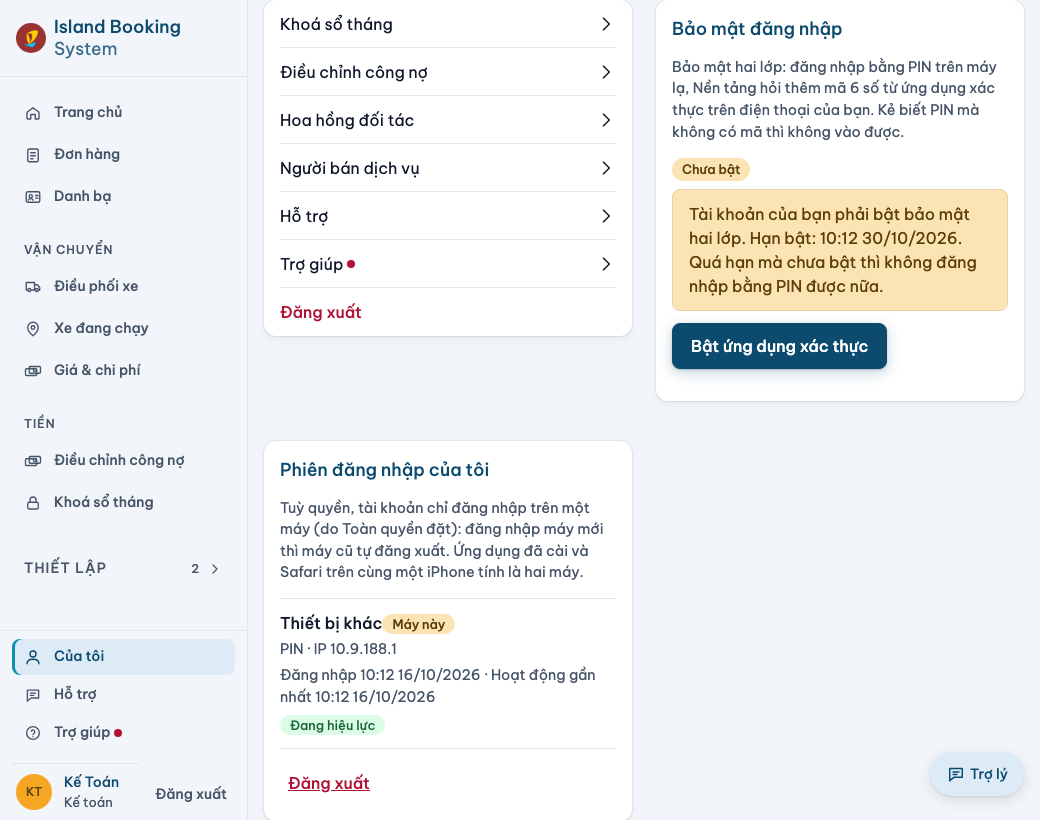
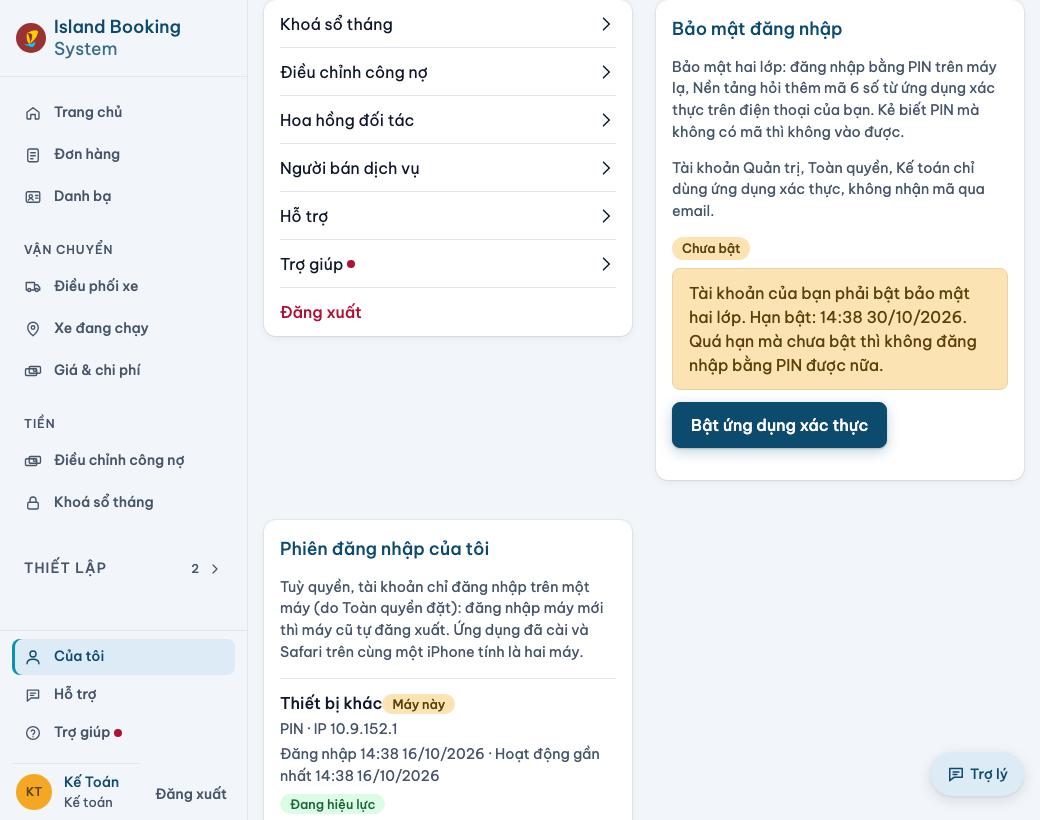
Trang Tôi: dòng giải thích vì sao Quản trị, Toàn quyền, Kế toán không có lựa chọn nhận mã qua email
Chủ dự án (Toàn quyền) không thấy Email ở Bảo mật đăng nhập và tưởng là lỗi; thực ra ADR-0074 điều 7 chỉ cho nhóm này dùng ứng dụng xác thực. Nay khối có một dòng nói rõ điều đó khi máy chủ không cho chọn Email. Kịch bản Chrome bước 3 kiểm đúng dòng này. Nhật ký thay đổi 2.8 (số tạm).

Claude-Session: https://claude.ai/code/session_01Uxse8vb7uZZpntmASeQ8Zs

Changed region(s): [[0.6462, 0.1829, 0.9846, 0.5488], [0.2462, 0.6098, 0.5846, 1.0], [0.2769, 0.5488, 0.4615, 0.5793]]

diff --git a/src/shared/changelog.ts b/src/shared/changelog.ts
@@ -12,6 +12,15 @@ export interface ReleaseNote { readonly version: string; readonly date: string; 
 /** Mới nhất ở ĐẦU. */
 export const CHANGELOG: readonly ReleaseNote[] = [
   {
+    // Dòng giải thích ở trang Tôi → Bảo mật đăng nhập khi không có lựa chọn Email (chủ dự án 2026-10-16: Toàn quyền không thấy Email, tưởng là lỗi). Không migration.
+    // Số 2.8 là số TẠM (= main 2.7 + 1, kiểm 2026-10-16: main 476099d3): phiên phát hành kiểm lại cho đúng số kế tiếp ở main (bước A.0 của docs/HANDOFF-N1.md).
+    version: "2.8",
+    date: "2026-10-16",
+    items: [
+      { kind: "sua", text: "Trang Tôi, mục Bảo mật đăng nhập: tài khoản Quản trị, Toàn quyền, Kế toán nay có dòng giải thích vì sao không có lựa chọn nhận mã qua email." },
+    ],
+  },
+  {
     // Mã đăng nhập qua email (ADR-0074 Phần C). Có thay đổi cơ sở dữ liệu (migration 0102 thêm bảng mã email) — cần trien-khai sau day-len. Gửi thư dùng binding
     // EMAIL + bí mật FEEDBACK_MAIL_FROM đã có (chủ xác nhận; gửi thật chưa thử — docs/HANDOFF-N1.md).
     // Số 2.7 là số TẠM (= main 2.6 «thẻ góp ý chưa trả lời» + 1, kiểm 2026-10-16: main 238f740a): phiên phát hành kiểm lại cho đúng số kế tiếp ở main (bước A.0 của

diff --git a/src/shared/hai-lop-hien-thi.test.ts b/src/shared/hai-lop-hien-thi.test.ts
@@ -2,7 +2,7 @@
 import { test } from "node:test";
 import assert from "node:assert/strict";
 import {
-  CAU_SAI_QUA_NHIEU_HAI_LOP, CHU_DO_MA_DU_PHONG, cauLoiHaiLop, daiNhacHaiLop, khoaDeDoc, maTotpTuO, nhanHaiLop, soNgayCon, tenTepMaDuPhong, vanBanMaDuPhong,
+  CAU_CHI_UNG_DUNG_XAC_THUC, CAU_SAI_QUA_NHIEU_HAI_LOP, CHU_DO_MA_DU_PHONG, cauLoiHaiLop, daiNhacHaiLop, khoaDeDoc, maTotpTuO, nhanHaiLop, soNgayCon, tenTepMaDuPhong, vanBanMaDuPhong,
 } from "./hai-lop-hien-thi.ts";
 
 const NOW = Date.parse("2026-10-16T03:00:00.000Z"); // 10:00 giờ Việt Nam
@@ -65,4 +65,8 @@ test("tệp mã dự phòng: đủ 10 mã đánh số, câu cảnh báo, không 
   assert.ok(t.includes(CHU_DO_MA_DU_PHONG));
   assert.equal(CHU_DO_MA_DU_PHONG, "Cất các mã này ở nơi an toàn — mỗi mã dùng một lần.");
   assert.equal(tenTepMaDuPhong(iso(NOW)), "ma-du-phong-tour-dao-2026-10-16.txt");
+});
+
+test("câu giải thích khi không có lựa chọn Email: nêu rõ ba nhóm quyền chỉ dùng ứng dụng xác thực", () => {
+  assert.equal(CAU_CHI_UNG_DUNG_XAC_THUC, "Tài khoản Quản trị, Toàn quyền, Kế toán chỉ dùng ứng dụng xác thực, không nhận mã qua email.");
 });

diff --git a/web/account.ts b/web/account.ts
@@ -1,6 +1,7 @@
 import { ApiError, api, type Api } from "./api";
 import { chipHan, coMucGiayToCuaToi, ngayVN, tenGiayTo } from "../src/shared/giay-to-hien-thi";
 import { PERMISSION_LABEL, can, hasPermission } from "../src/shared/permissions";
+import { CAU_CHI_UNG_DUNG_XAC_THUC } from "../src/shared/hai-lop-hien-thi";
 import { coPhanTaiXe } from "../src/shared/start-page";
 import { trangToi, type MucHien } from "../src/shared/muc-giao-dien";
 import { canHuyDangKyCu } from "../src/shared/push-khoa";
@@ -697,6 +698,7 @@ async function renderMfa(): Promise<void> {
     mfaEl,
     h("h2", { id: "mfa-heading" }, "Bảo mật đăng nhập"),
     h("p", { class: "muted" }, `Bảo mật hai lớp: đăng nhập bằng PIN trên máy lạ, Nền tảng hỏi thêm mã 6 số từ ứng dụng xác thực trên điện thoại của bạn${emailDuoc ? " hoặc mã gửi qua email" : ""}. Kẻ biết PIN mà không có mã thì không vào được.`),
+    !emailDuoc && h("p", { class: "muted" }, CAU_CHI_UNG_DUNG_XAC_THUC), // máy chủ không cho Email (Quản trị / Toàn quyền / Kế toán): nói rõ để khỏi tưởng là lỗi
     trangThai,
     batBuoc,
     vung,

diff --git a/src/shared/hai-lop-hien-thi.ts b/src/shared/hai-lop-hien-thi.ts
@@ -16,6 +16,9 @@ export function cauLoiHaiLop(code: string, message: string): string {
   return code === "too_many_attempts" ? CAU_SAI_QUA_NHIEU_HAI_LOP : message;
 }
 
+/** Dòng giải thích ở khối Bảo mật đăng nhập khi máy chủ không cho chọn Email (ADR-0074 điều 7): người dùng khỏi tưởng là lỗi. */
+export const CAU_CHI_UNG_DUNG_XAC_THUC = "Tài khoản Quản trị, Toàn quyền, Kế toán chỉ dùng ứng dụng xác thực, không nhận mã qua email.";
+
 /** Chữ đỏ dưới bộ mã dự phòng (nguyên văn kế hoạch Task 7). */
 export const CHU_DO_MA_DU_PHONG = "Cất các mã này ở nơi an toàn — mỗi mã dùng một lần.";
 
